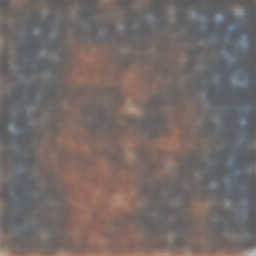
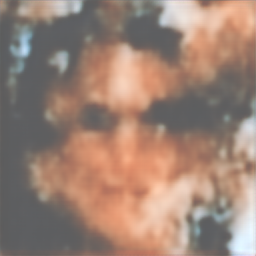
Updated

diff --git a/TimestepEmbedding.py b/TimestepEmbedding.py
@@ -1,4 +1,4 @@
-# This file is taken from https://github.com/explainingai-code/DDPM-Pytorch
+# This file is adapted from https://github.com/explainingai-code/DDPM-Pytorch
 # Original license: MIT
 # Copyright (c) 2020 Original Author
 
@@ -15,6 +15,7 @@ class LinearNoiseScheduler:
         
         self.betas = torch.linspace(beta_start, beta_end, num_timesteps)
         self.alphas = 1. - self.betas
+        self.sqrt_alphas = torch.sqrt(self.alphas)
         self.alpha_cum_prod = torch.cumprod(self.alphas, dim=0)
         self.sqrt_alpha_cum_prod = torch.sqrt(self.alpha_cum_prod)
         self.sqrt_one_minus_alpha_cum_prod = torch.sqrt(1 - self.alpha_cum_prod)
@@ -42,32 +43,25 @@ class LinearNoiseScheduler:
         return (sqrt_alpha_cum_prod.to(original.device) * original
                 + sqrt_one_minus_alpha_cum_prod.to(original.device) * noise)
         
-    def sample_prev_timestep(self, xt, noise_pred, t):
-        r"""
-            Use the noise prediction by model to get
-            xt-1 using xt and the noise predicted
-        :param xt: current timestep sample
-        :param noise_pred: model noise prediction
-        :param t: current timestep we are at
-        :return:
-        """
-        x0 = ((xt - (self.sqrt_one_minus_alpha_cum_prod.to(xt.device)[t] * noise_pred)) /
-              torch.sqrt(self.alpha_cum_prod.to(xt.device)[t]))
-        x0 = torch.clamp(x0, -1., 1.)
-        
-        mean = xt - ((self.betas.to(xt.device)[t]) * noise_pred) / (self.sqrt_one_minus_alpha_cum_prod.to(xt.device)[t])
-        mean = mean / torch.sqrt(self.alphas.to(xt.device)[t])
-        
+    def sample_prev_timestep(self, x0, xt, t):
         if t == 0:
-            return mean, x0
-        else:
-            # variance = (1 - self.alpha_cum_prod.to(xt.device)[t - 1]) / (1.0 - self.alpha_cum_prod.to(xt.device)[t])
-            # variance = variance * self.betas.to(xt.device)[t]
-            # sigma = variance ** 0.5
-            # z = torch.randn(xt.shape).to(xt.device)
-            
-            # OR
-            variance = self.betas[t]
-            sigma = variance ** 0.5
-            z = torch.randn(xt.shape).to(xt.device)
-            return mean + sigma * z, x0
+            return x0,x0
+
+        device = xt.device
+
+        beta_t = self.betas[t].to(device)
+        alpha_t = self.alphas[t].to(device)
+        sqrt_alpha_t = self.sqrt_alphas[t].to(device)
+        alpha_bar_t = self.alpha_cum_prod[t].to(device)
+        alpha_bar_prev = self.alpha_cum_prod[t - 1].to(device)
+        sqrt_alpha_bar_prev = self.sqrt_alpha_cum_prod[t - 1].to(device)
+
+        coef_x0 = (sqrt_alpha_bar_prev * beta_t) / (1 - alpha_bar_t)
+        coef_xt = (sqrt_alpha_t * (1 - alpha_bar_prev)) / (1 - alpha_bar_t)
+
+        mean = coef_x0 * x0 + coef_xt * xt
+        posterior_variance = beta_t * (1 - alpha_bar_prev) / (1 - alpha_bar_t)
+        sigma = torch.sqrt(posterior_variance)
+        noise = torch.randn_like(xt)
+
+        return mean + sigma * noise, x0

diff --git a/Sampler.py b/Sampler.py
@@ -1,0 +1,82 @@
+import torch
+import torch.nn.functional as F
+import matplotlib.pyplot as plt
+import os
+import torchvision
+from torchvision.utils import make_grid
+from DiTCore import DiT
+from TimestepEmbedding import LinearNoiseScheduler
+
+# Check for GPU
+device = torch.device("cuda" if torch.cuda.is_available() else "cpu")
+
+# Hyperparameters (Same as training)
+image_size = (3, 256, 256)  # (Channels, Height, Width) — Adjust if needed
+num_timesteps = 1000
+beta_start, beta_end = 1e-4, 0.02
+no_of_dit_blocks = 12  # Match your trained model
+
+# Load trained model
+model = DiT(no_of_dit_blocks).to(device)
+model.load_state_dict(torch.load("dit_final_12_f_250.pth", map_location=device))
+model.eval()  # Set to evaluation mode
+
+# Initialize noise scheduler
+scheduler = LinearNoiseScheduler(num_timesteps, beta_start, beta_end)
+
+@torch.no_grad()
+def generate_images():
+    """ Generate images from pure noise using the trained diffusion model """
+    xt = torch.randn((1, *image_size)).to(device)  # Start with Gaussian noise
+    
+    for t in reversed(range(num_timesteps)):  # Reverse diffusion process
+
+        t_tensor = torch.full((1,), t, device=device, dtype=torch.long)
+
+        # ims = torch.clamp(xt, -1., 1.).detach().cpu()
+        # ims = (ims + 1) / 2
+        # grid = make_grid(ims, nrow=1)
+        # img = torchvision.transforms.ToPILImage()(grid)
+        # if not os.path.exists(os.path.join('generated_images', 'samples3')):
+        #     os.mkdir(os.path.join('generated_images', 'samples3'))
+        # img.save(os.path.join('generated_images', 'samples3', '{}_x1.png'.format(t)))
+        # img.close()
+
+
+        image_pred = model(xt, t_tensor)  # Predict image
+
+
+        # ims = torch.clamp(image_pred, -1., 1.).detach().cpu()
+        # ims = (ims + 1) / 2
+        # grid = make_grid(ims, nrow=1)
+        # img = torchvision.transforms.ToPILImage()(grid)
+        # img.save(os.path.join('generated_images', 'samples3', '{}_x2.png'.format(t)))
+        # img.close()
+
+        xt,x0 = scheduler.sample_prev_timestep(image_pred, xt, t)  # Get previous timestep
+
+
+        # ims = torch.clamp(xt, -1., 1.).detach().cpu()
+        # ims = (ims + 1) / 2
+        # grid = make_grid(ims, nrow=1)
+        # img = torchvision.transforms.ToPILImage()(grid)
+        # img.save(os.path.join('generated_images', 'samples3', '{}_x3.png'.format(t)))
+        # img.close()
+
+
+    return xt  # Final denoised image
+
+generated_images = generate_images()
+
+# Convert images to CPU and normalize
+generated_images = (generated_images.clamp(-1, 1) + 1) / 2  # Rescale to [0,1]
+generated_images = generated_images.permute(0, 2, 3, 1).cpu().numpy()  # (B, H, W, C)
+
+# Save and Display
+os.makedirs("generated_images", exist_ok=True)
+for i, img in enumerate(generated_images):
+    plt.imsave(f"generated_images/samples4/sample_0.png", img)
+    plt.subplot(1,1, i + 1)
+    plt.imshow(img)
+    plt.axis("off")
+plt.show()

diff --git a/Trainer.py b/Trainer.py
@@ -15,7 +15,7 @@ device = torch.device("cuda" if torch.cuda.is_available() else "cpu")
 # Hyperparameters
 batch_size=16
 lr=2e-4
-num_epochs=150
+num_epochs=250
 num_timesteps=1000  # Number of diffusion steps
 beta_start, beta_end=1e-4, 0.02
 no_of_dit_blocks=12
@@ -101,7 +101,7 @@ def train():
             print(f"Checkpoint saved at epoch {epoch+1}")
 
     print("Training complete.")
-    torch.save(model.state_dict(), "dit_final_12_f_150.pth")
+    torch.save(model.state_dict(), "dit_final_12_f_250.pth")
 
 if __name__ == "__main__":
     print("Training DiT model...")
